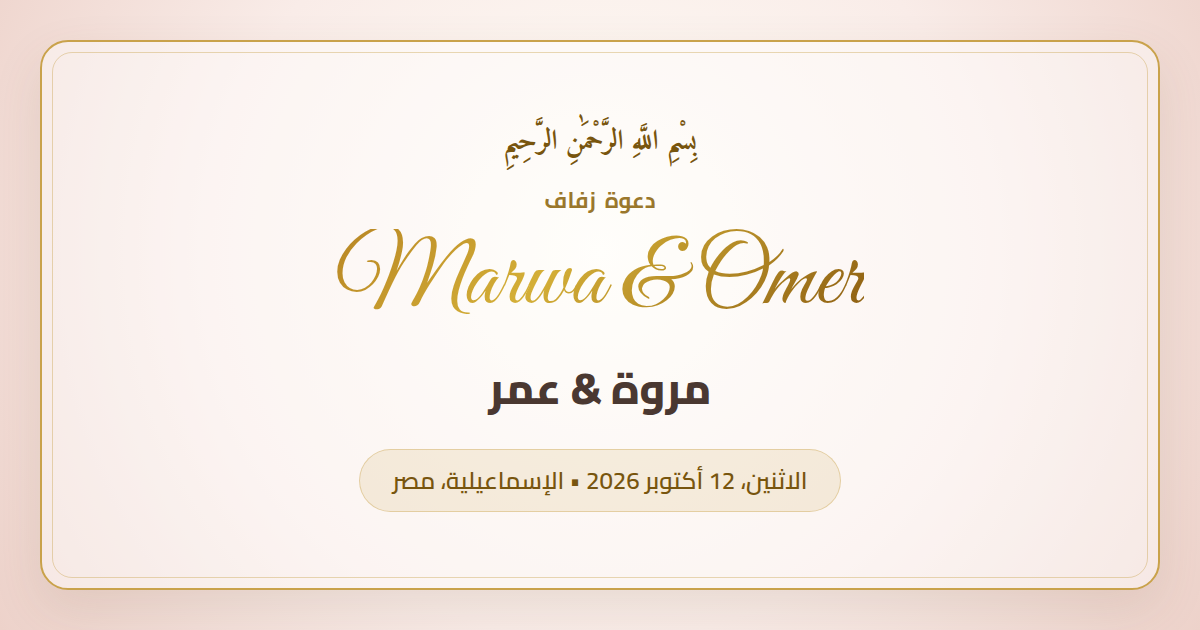
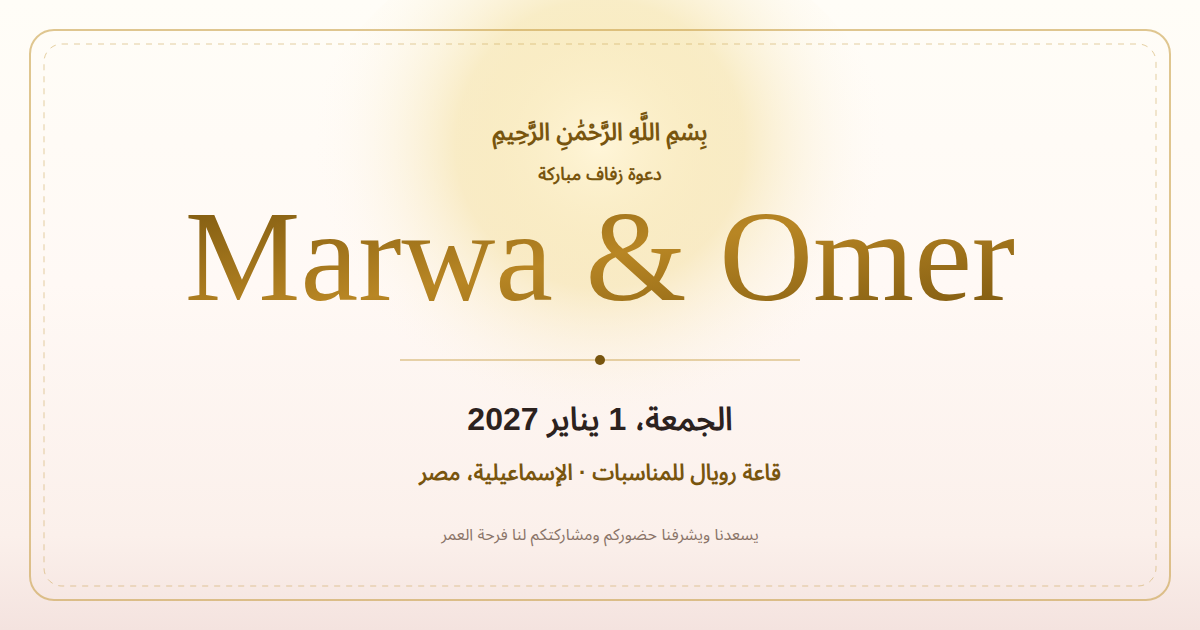
fix: update wedding date to Friday, 1 January 2027 across all data and metadata

Changed region(s): [[0.0, 0.0, 1.0, 0.9952], [0.3083, 0.7238, 0.6783, 0.7841], [0.37, 0.8444, 0.6475, 0.8746]]

diff --git a/src/app/layout.tsx b/src/app/layout.tsx
@@ -11,8 +11,8 @@ export const viewport: Viewport = {
 
 export const metadata: Metadata = {
   metadataBase: new URL('https://marwa-omer-six.vercel.app'),
-  title: 'دعوة زفاف مروة وعمر | 12 أكتوبر 2026',
-  description: 'يسرنا ويشرفنا دعوتكم لحضور حفل زفاف مروة وعمر. الاثنين 12 أكتوبر 2026 في الإسماعيلية، مصر.',
+  title: 'دعوة زفاف مروة وعمر | 1 يناير 2027',
+  description: 'يسرنا ويشرفنا دعوتكم لحضور حفل زفاف مروة وعمر. الجمعة 1 يناير 2027 في الإسماعيلية، مصر.',
   icons: {
     icon: '/favicon.svg',
     apple: '/favicon.svg',
@@ -20,14 +20,14 @@ export const metadata: Metadata = {
   openGraph: {
     type: 'website',
     locale: 'ar_EG',
-    title: 'دعوة زفاف مروة وعمر | 12 أكتوبر 2026',
-    description: 'يسرنا ويشرفنا دعوتكم لحضور حفل زفاف مروة وعمر. الاثنين 12 أكتوبر 2026 في الإسماعيلية، مصر.',
+    title: 'دعوة زفاف مروة وعمر | 1 يناير 2027',
+    description: 'يسرنا ويشرفنا دعوتكم لحضور حفل زفاف مروة وعمر. الجمعة 1 يناير 2027 في الإسماعيلية، مصر.',
     images: ['/og-image.png'],
   },
   twitter: {
     card: 'summary_large_image',
-    title: 'دعوة زفاف مروة وعمر | 12 أكتوبر 2026',
-    description: 'يسرنا ويشرفنا دعوتكم لحضور حفل زفاف مروة وعمر. الاثنين 12 أكتوبر 2026 في الإسماعيلية، مصر.',
+    title: 'دعوة زفاف مروة وعمر | 1 يناير 2027',
+    description: 'يسرنا ويشرفنا دعوتكم لحضور حفل زفاف مروة وعمر. الجمعة 1 يناير 2027 في الإسماعيلية، مصر.',
     images: ['/og-image.png'],
   },
 };

diff --git a/src/data/invitation.ts b/src/data/invitation.ts
@@ -46,10 +46,10 @@ export const INVITATION_DATA = {
   },
 
   // Primary Wedding Date
-  weddingDate: '12 أكتوبر 2026',
-  weddingDateFormatted: 'الاثنين، 12 أكتوبر 2026',
+  weddingDate: '1 يناير 2027',
+  weddingDateFormatted: 'الجمعة، 1 يناير 2027',
   // ISO string for live countdown (Cairo Time UTC+2)
-  targetDateISO: '2026-10-12T19:00:00+02:00',
+  targetDateISO: '2027-01-01T19:00:00+02:00',
 
   // Spiritual Inscription
   bismillah: {
@@ -88,7 +88,7 @@ export const INVITATION_DATA = {
       id: 'wedding',
       name: 'حفل الزفاف الميمون',
       subtitle: 'مراسم عقد القران والاحتفال بحضور الأحباب',
-      date: 'الاثنين، 12 أكتوبر 2026',
+      date: 'الجمعة، 1 يناير 2027',
       time: '7:00 مساءً',
       venue: 'قاعة رويال للمناسبات',
       address: 'طريق البلاجات، الإسماعيلية، مصر',

diff --git a/src/components/sections/SectionClosing.tsx b/src/components/sections/SectionClosing.tsx
@@ -90,11 +90,11 @@ export const SectionClosing: React.FC = () => {
           </h1>
         </Reveal>
 
-        {/* Date: 12 · 10 · 2026 */}
+        {/* Date: 1 · 1 · 2027 */}
         <Reveal delay={0.45} className="mb-10">
           <div className="inline-flex items-center gap-2 px-5 py-1.5 rounded-full bg-cream/90 border border-gold/40 shadow-xs">
             <span className="font-cairo text-xs sm:text-sm font-bold text-taupe-dark">
-              ١٢ · ١٠ · ٢٠٢٦
+              ١ · ١ · ٢٠٢٧
             </span>
           </div>
         </Reveal>
@@ -116,7 +116,7 @@ export const SectionClosing: React.FC = () => {
           </p>
 
           <p className="font-cairo text-[11px] text-taupe/60">
-            جميع الحقوق محفوظة © ٢٠٢٦
+            جميع الحقوق محفوظة © ٢٠٢٧
           </p>
         </Reveal>
       </div>
